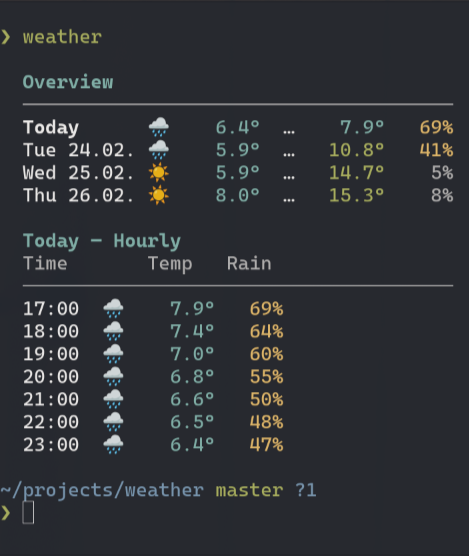
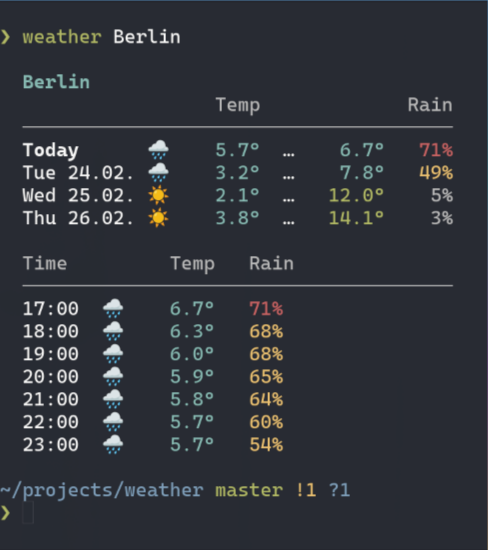
Add city geocoding and fix output formatting

diff --git a/src/main.rs b/src/main.rs
@@ -67,14 +67,50 @@ fn pick_icon(conds: &[String]) -> &'static str {
     icon("dry")
 }
 
+fn geocode(city: &str) -> Option<(f64, f64, String)> {
+    let url = format!(
+        "https://nominatim.openstreetmap.org/search?q={}&format=json&limit=1",
+        city.replace(' ', "+")
+    );
+    let mut resp = ureq::get(&url)
+        .header("User-Agent", "weather-cli")
+        .call()
+        .ok()?;
+    let body = resp.body_mut().read_to_string().ok()?;
+    let results: Vec<serde_json::Value> = serde_json::from_str(&body).ok()?;
+    let first = results.first()?;
+    let lat: f64 = first["lat"].as_str()?.parse().ok()?;
+    let lon: f64 = first["lon"].as_str()?.parse().ok()?;
+    let name = first["display_name"].as_str()?.split(',').next()?.trim().to_string();
+    Some((lat, lon, name))
+}
+
 fn main() {
+    let city = std::env::args().skip(1).collect::<Vec<_>>().join(" ");
+    let city = if city.is_empty() {
+        eprint!("City: ");
+        let mut input = String::new();
+        std::io::stdin().read_line(&mut input).unwrap();
+        input.trim().to_string()
+    } else {
+        city
+    };
+
+    let (lat, lon, name) = match geocode(&city) {
+        Some(v) => v,
+        None => {
+            eprintln!("Could not find city: {city}");
+            return;
+        }
+    };
+
     let now = Local::now();
     let today = now.format("%Y-%m-%d").to_string();
     let date_from = now.format("%Y-%m-%dT%H:00").to_string();
     let date_to = (now + chrono::Duration::days(3)).format("%Y-%m-%dT%H:00").to_string();
 
     let url = format!(
-        "https://api.brightsky.dev/weather?lat=52.15&lon=9.95&date={}&last_date={}",
+        "https://api.brightsky.dev/weather?lat={lat}&lon={lon}&date={}&last_date={}",
         date_from, date_to
     );
 
@@ -129,7 +165,8 @@ fn main() {
     }
 
     // Cards
-    println!("\n  {BOLD}{CYAN}Overview{RESET}");
+    println!("\n  {BOLD}{CYAN}{name}{RESET}");
+    println!("  {DIM}                 Temp             Rain{RESET}");
     println!("  {DIM}──────────────────────────────────────{RESET}");
     for (day, d) in &days {
         let ic = pick_icon(&d.conds);
@@ -148,8 +185,8 @@ fn main() {
     // Hourly today
     if let Some((_, d)) = days.iter().find(|(day, _)| day == &today) {
         if !d.hours.is_empty() {
-            println!("\n  {BOLD}{CYAN}Today — Hourly{RESET}");
-            println!("  {DIM}Time       Temp   Rain{RESET}");
+            println!();
+            println!("  {DIM}Time         Temp   Rain{RESET}");
             println!("  {DIM}──────────────────────────────────────{RESET}");
             for (hour, t, rp, cond) in &d.hours {
                 let ic = icon(cond);
